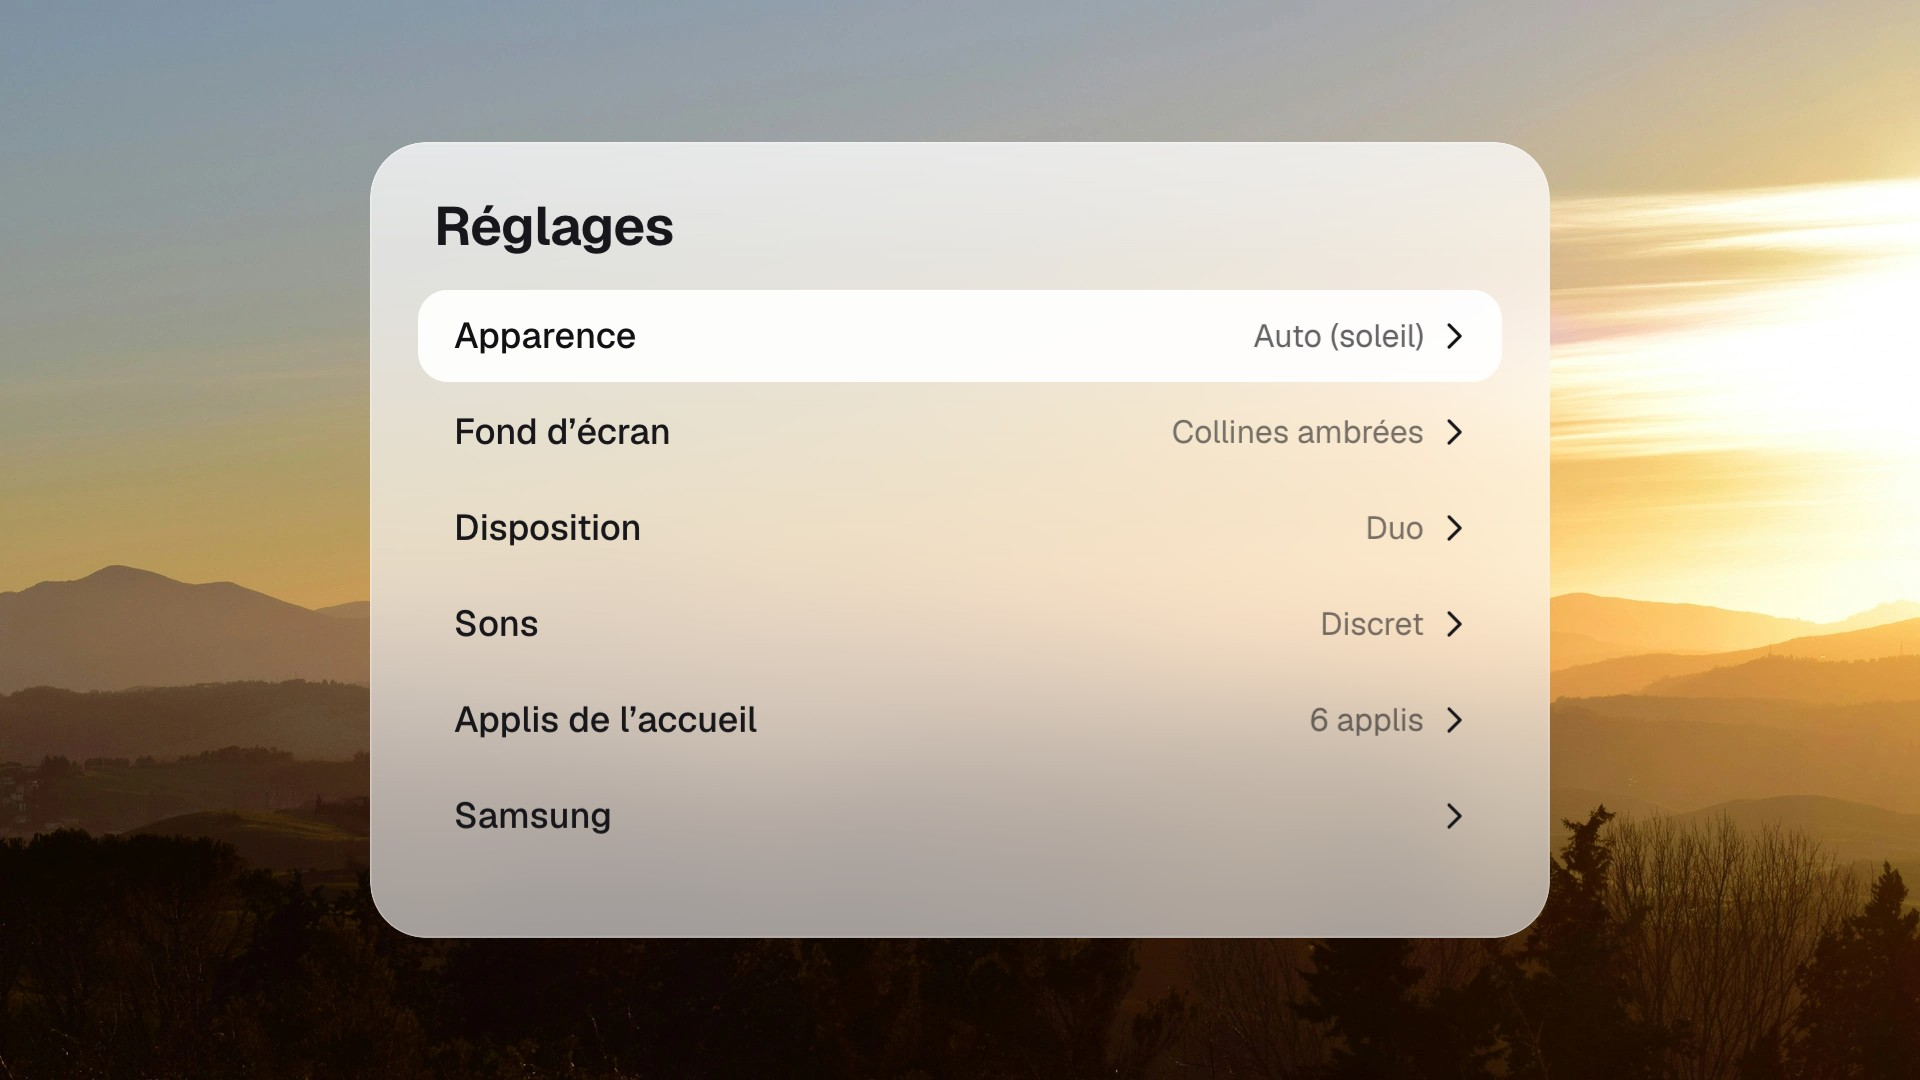
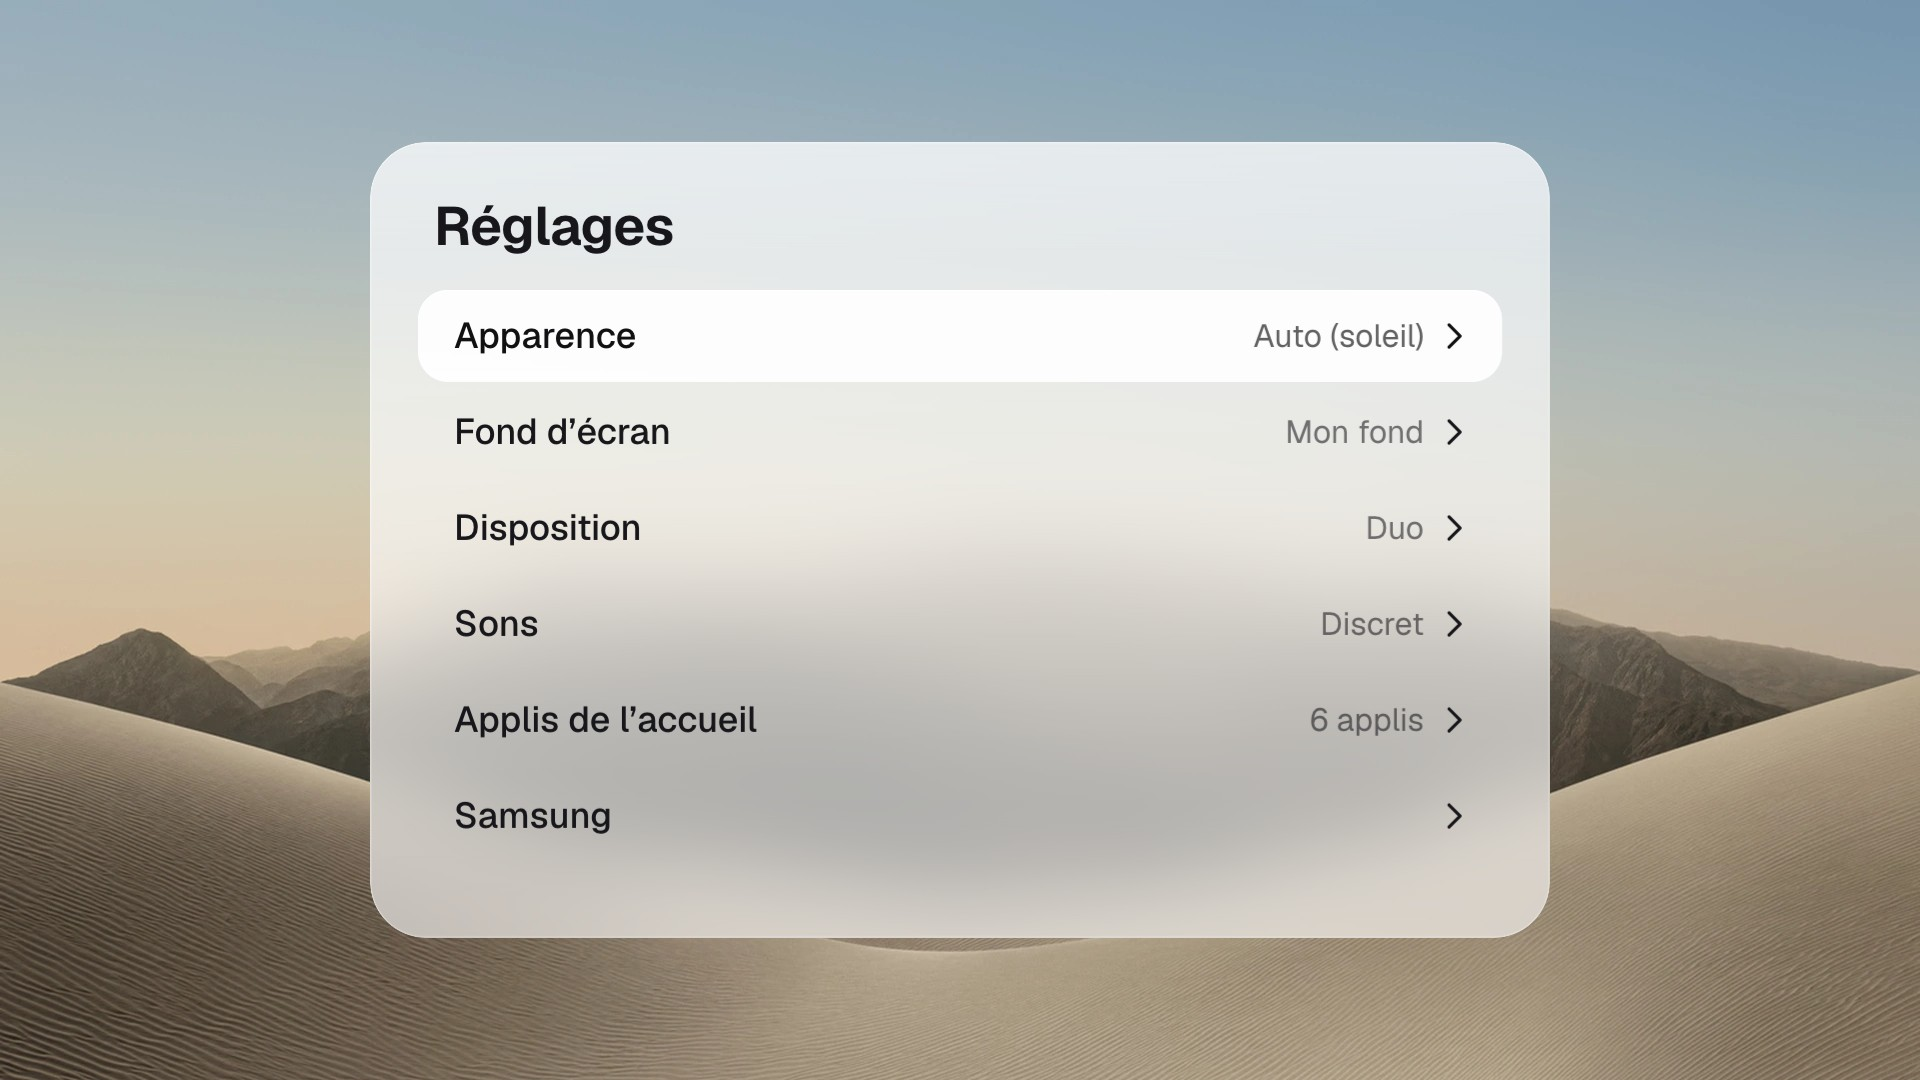
Retake the README pictures

diff --git a/scripts/assemble-showcase.py b/scripts/assemble-showcase.py
@@ -1,0 +1,32 @@
+"""Builds the README's hero picture and short film from what capture-showcase.mjs recorded."""
+import json
+import sys
+from pathlib import Path
+
+import numpy as np
+from PIL import Image
+
+FILM_FPS = 22
+
+work, images = Path(sys.argv[1]), Path(sys.argv[2])
+day = np.asarray(Image.open(work / 'hero-day.png').convert('RGB'), dtype=np.float32)
+night = np.asarray(Image.open(work / 'hero-night.png').convert('RGB'), dtype=np.float32)
+height, width = day.shape[:2]
+yy, xx = np.mgrid[0:height, 0:width].astype(np.float32)
+# A diagonal running through the colon of the clock, softened so it reads as dusk rather than a cut.
+line = xx - 960 + (yy - 340) * .34
+t = np.clip((line + 90) / 180, 0, 1)
+mask = (t * t * (3 - 2 * t))[..., None]
+hero = day * (1 - mask) + night * mask
+Image.fromarray(hero.round().clip(0, 255).astype(np.uint8), 'RGB').save(images / 'hero.jpg', quality=90, optimize=True, progressive=True)
+print('hero')
+
+kept, stamps = [], []
+for stamp, path in zip(json.loads((work / 'frames.json').read_text()), sorted((work / 'frames').glob('*.jpg'))):
+    if not stamps or stamp - stamps[-1] >= 1 / FILM_FPS:
+        kept.append(path)
+        stamps.append(stamp)
+durations = [max(30, round((after - before) * 1000)) for before, after in zip(stamps, stamps[1:])] + [1500]
+pictures = [Image.open(path).convert('RGB') for path in kept]
+pictures[0].save(images / 'duo-motion.webp', save_all=True, append_images=pictures[1:], duration=durations, loop=0, quality=74, method=4, minimize_size=False)
+print('duo-motion', len(pictures), 'frames', sum(durations) / 1000, 's', (images / 'duo-motion.webp').stat().st_size // 1024, 'KB')

diff --git a/docs/development.md b/docs/development.md
@@ -20,7 +20,7 @@ All UI assets, public fonts and the fifteen wallpapers are bundled. This private
 - Duo panels share the views, keys and state of the other layouts. Only their drawing differs: `renderDuoPanel` in `main.js` draws cards in `#duoPanels` instead of the `#sheet` and `#appearance` screens, so a change to what a panel does applies to all three layouts.
 - An HDMI source on Home is an entry of `APPS` with the id `hdmi<port>`, so the row, the editor and the saved order treat it like an app. Only Duo offers sources. The `devices` preference holds the device chosen for each port, and the logos stay in the private overlay.
 - `refreshCatalog` in `main.js` reads the TV when the launcher comes on screen, and `syncHome` then removes from Home what is no longer installed. `FrameDevice.apps` passes every installed ID as a third argument, because an app on Home need not pass the consumer filter of All apps.
-- Duo's wallpapers live outside `app/`. The public ones are in `duo-pack/themes/`, one folder each, with what they share in `duo-pack/icons/` and `duo-pack/ui/`. An owner's own are in ignored `.local/duo-themes/` and `.local/duo/`. The overlay in `scripts/font_assets.py` adds them to the package under `assets/duo/themes/` and fills in `assets/duo-catalog.js`, and a public build only ever takes `duo-pack/`. Without any wallpaper, Duo is not offered and a saved Duo choice falls back to Dock. `npm run duo:add` adds one; see [`scripts/duo-pack/README.md`](../scripts/duo-pack/README.md). The clock digits in `assets/duo-clock/` are original drawings and stay in the source.
+- Duo's wallpapers live outside `app/`. The public ones are in `duo-pack/themes/`, one folder each, with what they share in `duo-pack/icons/` and `duo-pack/ui/`. An owner's own are in ignored `.local/duo-themes/` and `.local/duo/`. The overlay in `scripts/font_assets.py` adds them to the package under `assets/duo/themes/` and fills in `assets/duo-catalog.js`, and a public build only ever takes `duo-pack/`. Without any wallpaper, Duo is not offered and a saved Duo choice falls back to Dock. `npm run duo:add` adds one; see [`scripts/duo-pack/README.md`](../scripts/duo-pack/README.md). `DEFAULT_DUO_WALL` in that overlay names the public default, and `npm run showcase` retakes the README's pictures from it, refusing to run if a private wallpaper is in the build. The clock digits in `assets/duo-clock/` are original drawings and stay in the source.
 - The logical stage is 1920 x 1080, scaled uniformly to the viewport. Check at 1920 x 1080 and 1280 x 720. Glass geometry and cached materials must stay aligned.
 - Preferences use localStorage key `cleanframe.home.v1`, with a fallback read from `cleanframe.shore.v1`. Legacy fields are `dock`, `wallpaper`, `mode`, `lastApp` and `theme`. The 0.6 migration preserves app order, wallpaper, rotation and selection. Legacy `list` becomes Dark / List / Type; `shore` and `grid` become Photo / Dock / Glass. Appearance axes are stored separately. A saved dynamic app keeps its real app ID and name; discovery refreshes the installed catalogue. Keep migration checks when changing this format.
 - `window.ShoreQA.state()` and `.where()` expose state and focus for browser tests. `minuteMs` can shorten rotation intervals in an isolated browser test.
